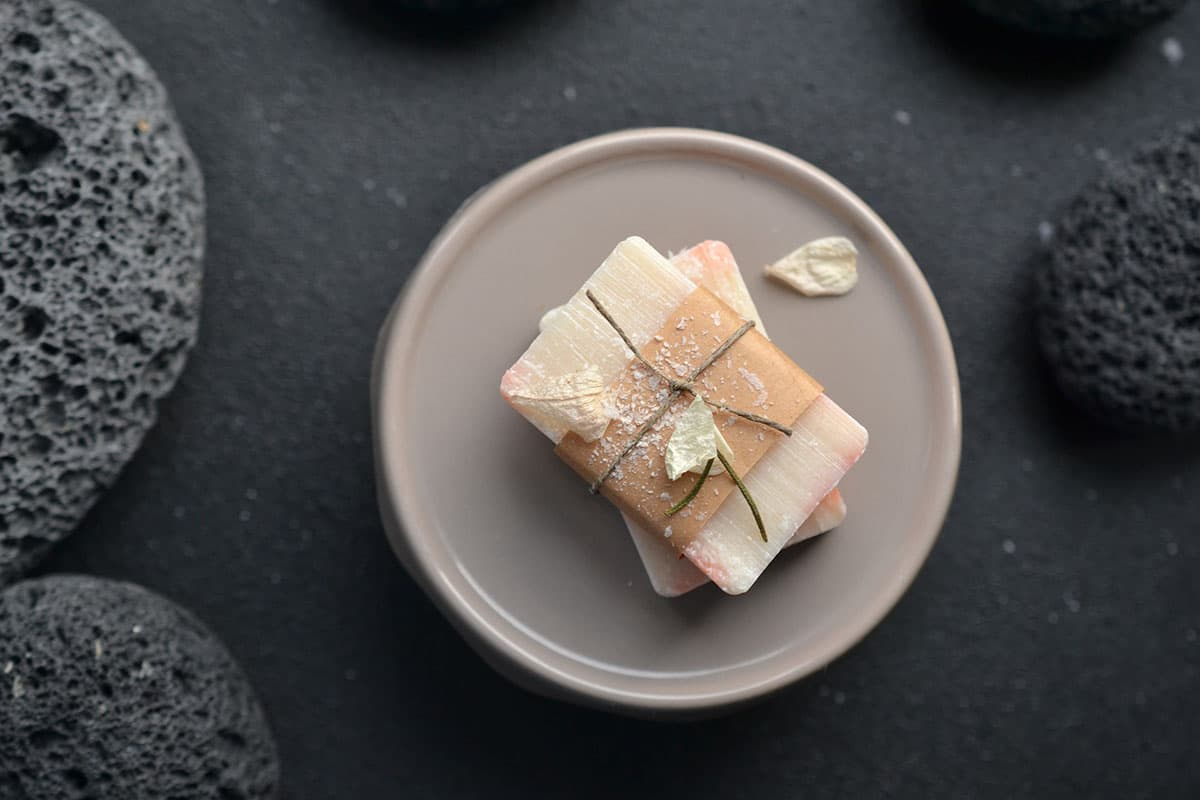
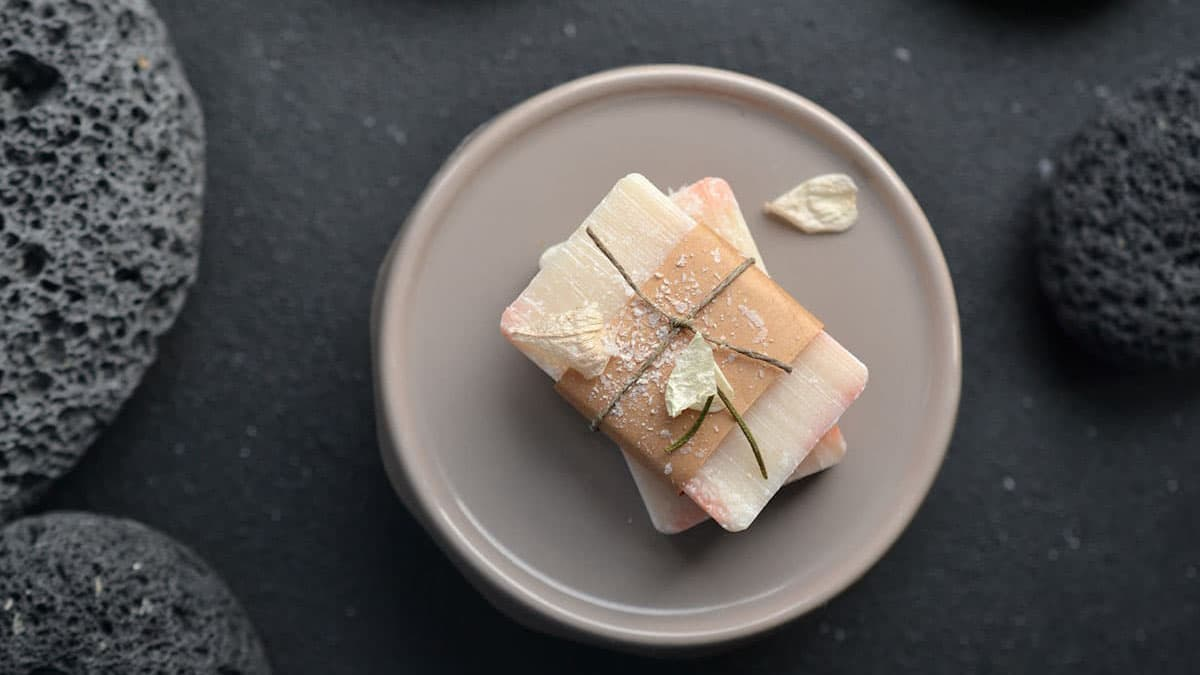
resize slider photos

diff --git a/js/sliders.js b/js/sliders.js
@@ -45,19 +45,28 @@ $(document).ready(function () {
 
         $('.main-slider-base').on('beforeChange', function (evt, slick, currentSlide, nextSlide) {
             $('.fade-base').removeClass('fade-scale').fadeOut(1000);
-            $('.fade-base').eq(nextSlide).fadeIn({queue: false, duration: 800}).addClass('fade-scale');
+            $('.fade-base')
+                .eq(nextSlide)
+                .fadeIn({queue: false, duration: 800})
+                .addClass('fade-scale');
         });
     
         
         $('.main-slider-type').on('beforeChange', function (evt, slick, currentSlide, nextSlide) {
             $('.fade-type').removeClass('fade-scale').fadeOut(1000);
-            $('.fade-type').eq(nextSlide).fadeIn({queue: false, duration: 800}).addClass('fade-scale');
+            $('.fade-type')
+                .eq(nextSlide)
+                .fadeIn({queue: false, duration: 800})
+                .addClass('fade-scale');
         });
     
     
         $('.main-slider-aroma').on('beforeChange', function (evt, slick, currentSlide, nextSlide) {
             $('.fade-aroma').removeClass('fade-scale').fadeOut(1000);
-            $('.fade-aroma').eq(nextSlide).fadeIn({queue: false, duration: 800}).addClass('fade-scale');
+            $('.fade-aroma')
+                .eq(nextSlide)
+                .fadeIn({queue: false, duration: 800})
+                .addClass('fade-scale');
         });
     }
 

diff --git a/blog.html b/blog.html
@@ -4,11 +4,11 @@
     <meta charset="UTF-8">
     <meta name="viewport" content="width=device-width, initial-scale=1.0">
     <meta http-equiv="X-UA-Compatible" content="ie=edge">
-    <meta name="description" content="Мыло ручной работы, откройте для себя мир мыловарения. Как сделать мыло своими руками и другие секреты на сайте Handmade soap">
+    <meta name="description" content="Мыло ручной работы, мыловарение. Как самому можно сделать мыло своими руками, пошаговая инструкция в нашей творческой мастерской на сайте Handmade soap">
     <link href="https://fonts.googleapis.com/css?family=Lobster|Roboto:400,700" rel="stylesheet">
     <link rel="stylesheet" href="plugins/slick/slick.css">
     <link rel="stylesheet" href="css/style.css">
-    <title>Мыло ручной работы – Блог – Handmade soap</title>
+    <title>Мыло ручной работы – Творческая мастерская – Handmade soap</title>
 </head>
 <body class="page blog-page">
 

diff --git a/css/style.css b/css/style.css
@@ -1115,14 +1115,14 @@ img {
   overflow: hidden;
 }
 
-.gallery-slider:hover .gallery-slider__title,
-.gallery-slider:hover .gallery-slider__desc {
-  -webkit-transform: translateY(0);
-          transform: translateY(0);
-}
-
 .gallery-slider__item {
   position: relative;
+}
+
+.gallery-slider__item:hover .gallery-slider__title,
+.gallery-slider__item:hover .gallery-slider__desc {
+  -webkit-transform: translateY(0);
+          transform: translateY(0);
 }
 
 .gallery-slider__title, .gallery-slider__desc {
@@ -1209,6 +1209,16 @@ img {
 
 .gallery-slider-thumb__next {
   right: 0;
+}
+
+@media screen and (max-width: 767px) {
+  .gallery-slider__title, .gallery-slider__desc {
+    height: 25%;
+    padding: 5px;
+  }
+  .gallery-slider__title {
+    font-size: 1em;
+  }
 }
 
 .footer {

diff --git a/css/_gallery.scss b/css/_gallery.scss
@@ -10,12 +10,12 @@
     max-width: 900px;
     margin: 0 auto;
     overflow: hidden;
-    &:hover .gallery-slider__title,
-    &:hover .gallery-slider__desc {
-        transform: translateY(0);
-    }
     &__item {
         position: relative;
+        &:hover .gallery-slider__title,
+        &:hover .gallery-slider__desc {
+            transform: translateY(0);
+        }
     }
     &__title,
     &__desc {
@@ -82,4 +82,21 @@
     &__next {
         right: 0;
     }
+}
+
+
+
+@media screen and (max-width: 767px) {
+
+    .gallery-slider {
+        &__title,
+        &__desc {
+            height: 25%;
+            padding: 5px;
+        }
+        &__title {
+            font-size: 1em;
+        }
+    }
+
 }
